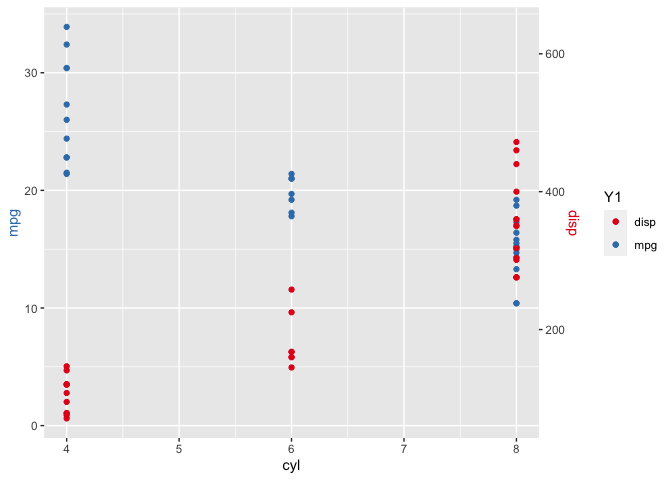
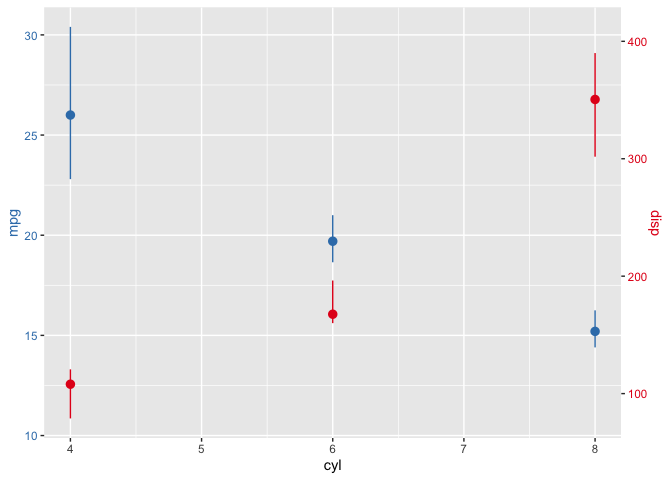
patch the 2nd stat_summary layer

diff --git a/log.md b/log.md
@@ -5,7 +5,7 @@
 ```shell
 # fast sync
 git add .
-git commit -am "edit dependencies"
+git commit -am "use stat_summary for dual yaxis plot"
 git push
 
 
